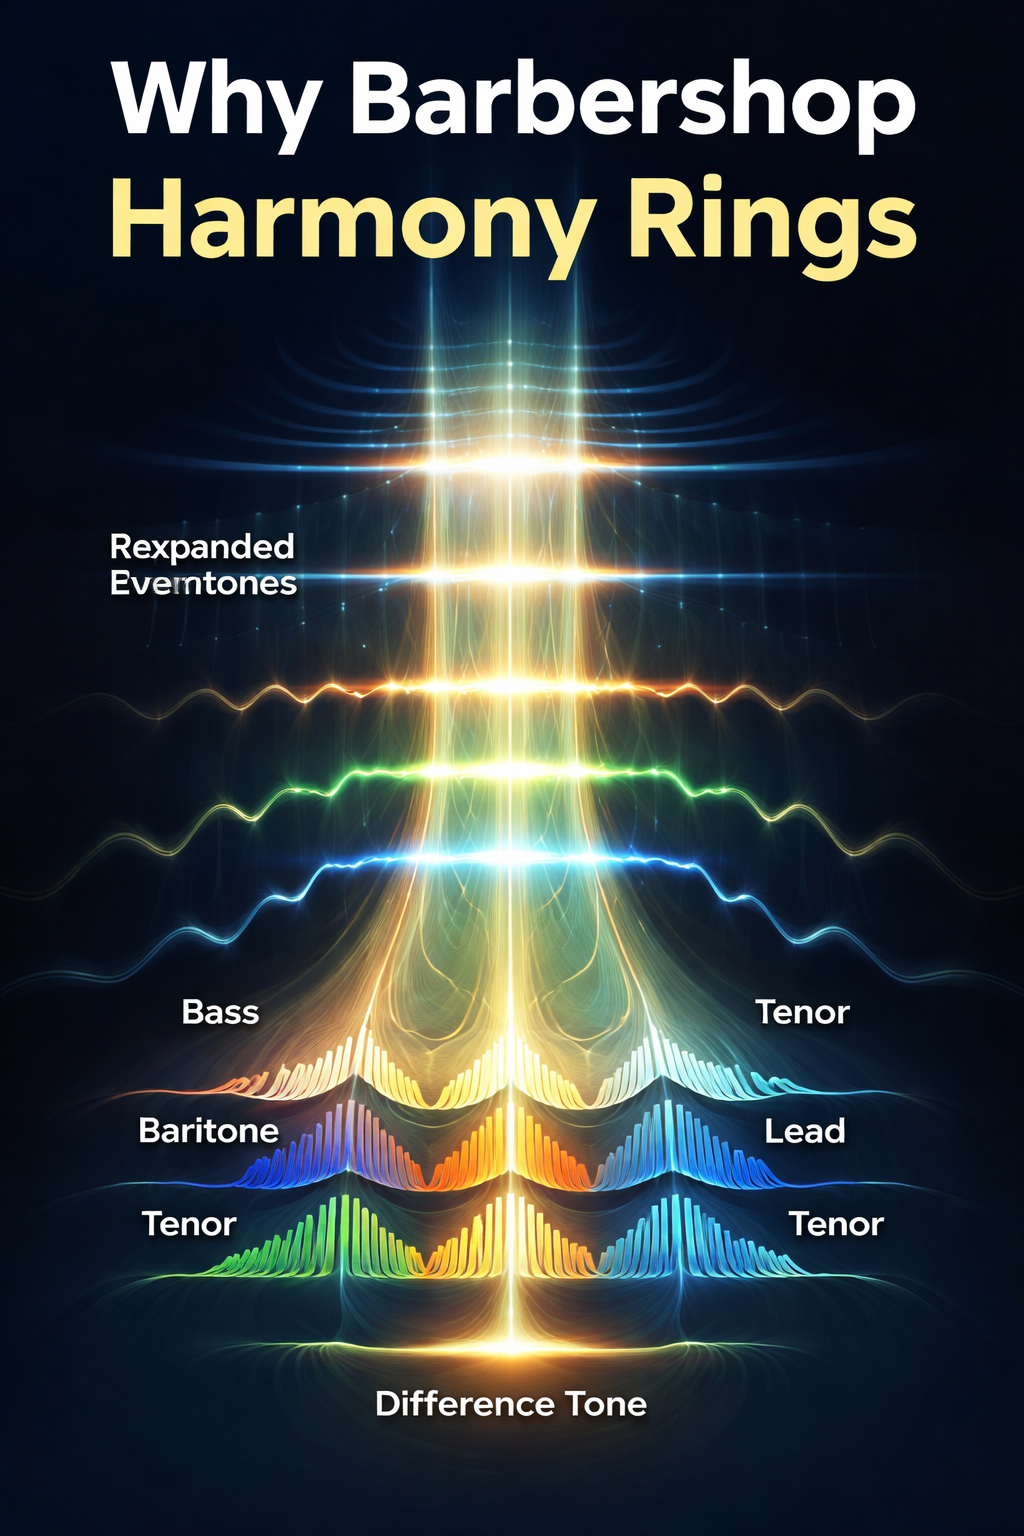
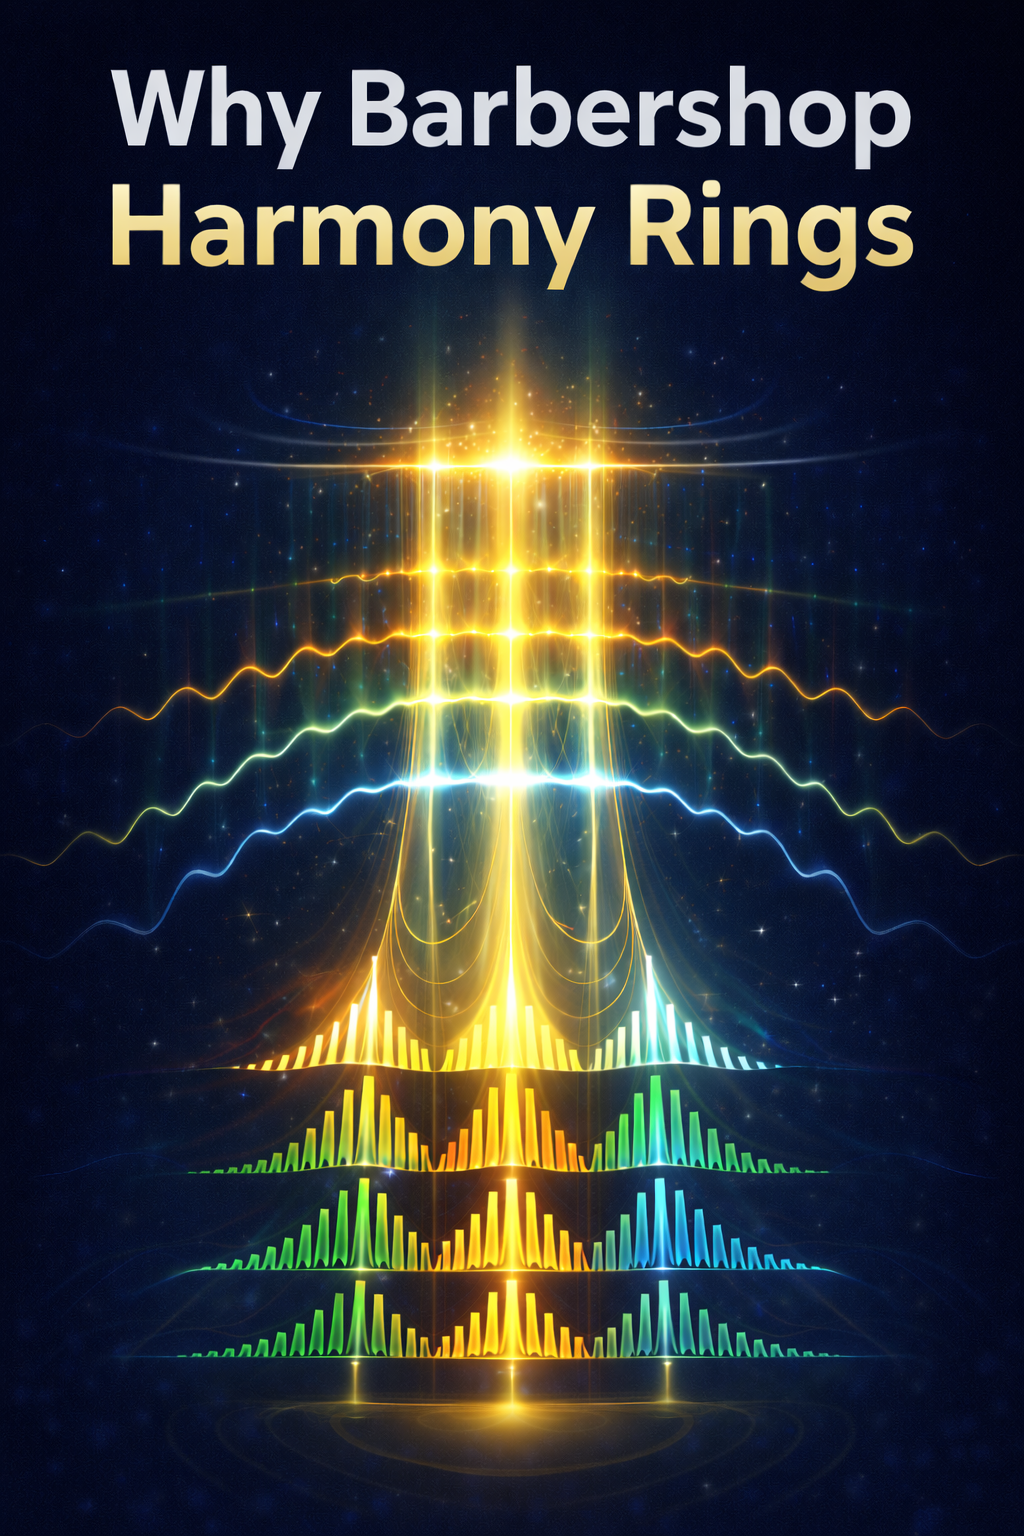
Remove in-post SVG diagrams, update hero image for Lock and Ring post
Removed all 7 SVG diagrams from the article body (inaccurate visuals)
and replaced the hero image with an updated version.

diff --git a/src/content/blog/lock-and-ring-barbershop-harmony.md b/src/content/blog/lock-and-ring-barbershop-harmony.md
@@ -41,8 +41,6 @@ What *was* that sound? Why did it feel that way — physical, penetrating, almos
 
 Eventually, I found the answers.
 
-![The difference between a correct chord and a ringing barbershop chord lies in harmonic alignment. When the overtones of the voices line up, the sound expands and the chord begins to ring.](/images/blog/lock_vs_intune.svg)
-
 ---
 
 ## This Is Not a Metaphor
@@ -77,8 +75,6 @@ When barbershop singers are truly chasing the sound the style is known for, they
 
 That distinction is the foundation of everything that follows.
 
-![Barbershop singers often tune chords toward pure acoustic relationships rather than the equal-tempered compromise used by most instruments.](/images/blog/tuning_comparison.svg)
-
 ---
 
 ## What Sound Waves Actually Do
@@ -95,8 +91,6 @@ Barbershop harmony, when it's truly working, is the sound of four human voices w
 
 That is the physics of expanded sound.
 
-![Sound waves reinforce each other when their peaks and troughs align. When they do not align, they interfere and weaken the sound.](/images/blog/wave_interference.svg)
-
 ---
 
 ## The Hidden Architecture of Every Voice
@@ -109,8 +103,6 @@ Every sung tone contains a whole series of additional tones layered above it —
 
 In everyday singing these overtones blend together and we hear them simply as the quality of the voice. We don't pick them out as separate pitches.
 
-![Every sung note contains a series of additional tones called harmonics or overtones. These hidden tones play a major role in the resonance of the voice.](/images/blog/harmonic_series.svg)
-
 Something remarkable happens when singers tune a chord to the natural acoustic relationships between notes.
 
 The overtones of different voices begin to line up with each other.
@@ -122,8 +114,6 @@ And this doesn't happen just once. It happens many times simultaneously, across 
 The chord contains frequencies — real, measurable acoustic energy — that the singers didn't individually create. The waves built it together.
 
 That is the expanded sound. And yes — it genuinely is larger than the sum of its parts.
-
-![When singers tune their voices to natural acoustic relationships, harmonics from different voices can land on the same frequencies and reinforce each other.](/images/blog/overtone_alignment.svg)
 
 ---
 
@@ -142,8 +132,6 @@ Listeners in that first encounter often notice one particular tone floating abov
 I know this because I was that listener once. Standing in a rehearsal room, completely certain I was hearing something that the four of us couldn't fully account for.
 
 I wasn't wrong.
-
-![When a chord locks, overtone reinforcement above the chord and difference tones below create a vertical column of sound larger than the voices that produced it.](/images/blog/expanded_sound_column.svg)
 
 ---
 
@@ -210,8 +198,6 @@ This effect cannot be experienced alone. It requires voices interacting in real 
 If you want to develop your ear more deliberately — to build the sensitivity that lets you hear the difference between approximate tuning and the precise acoustic alignment that produces lock and ring — that's something I've built a specific tool to help with. My **[Intonation Lab](/intonation-lab)** app was designed precisely for this: helping singers hear and internalize the difference between equal temperament and the pure intonation relationships that make expanded sound possible. You can't tune toward something you can't yet hear. Developing that sensitivity changes everything.
 
 And if you want to work directly on the intersection of vocal production, pure intonation, and expanded sound — the place where the voice and the harmony meet — that's the heart of what we do at **[Ted's Voice Academy](/).**
-
-![Spectrograms of ringing chords reveal strong harmonic bands where overtone energy reinforces across the spectrum.](/images/blog/ringing_chord_spectrogram.svg)
 
 ---
 
